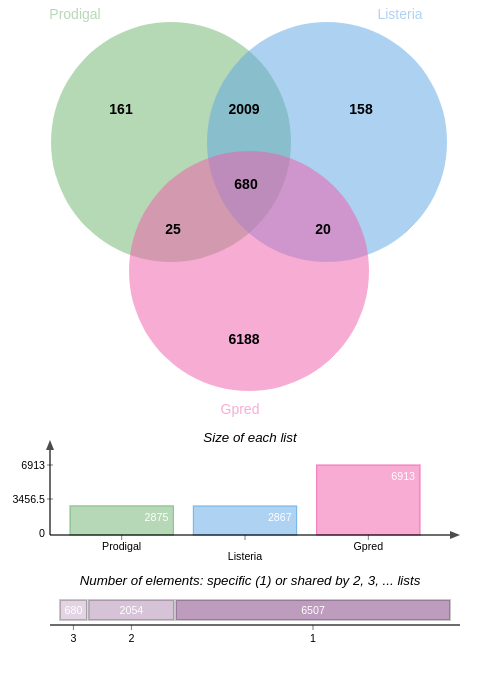
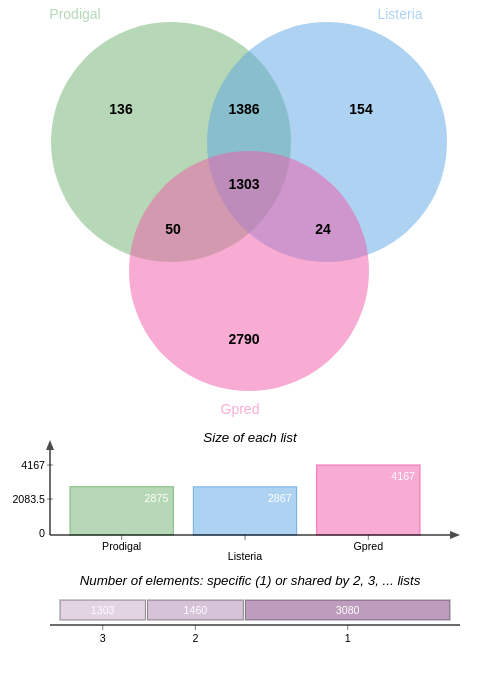
Adding the jVenn chart.

diff --git a/README.md b/README.md
@@ -5,7 +5,7 @@
 This project is a fork of the original repository [geneprediction-tp](https://github.com/aghozlane/geneprediction-tp), aimed at developing a program to predict prokaryotic genes based on the detection of reading frames and the Shine-Dalgarno motif, which is crucial for initiating protein translation. The Shine-Dalgarno sequence, AGGAGGUAA, binds to the 16S rRNA subunit to initiate translation, as described by [Shine and Dalgarno in 1973](https://www.sciencedirect.com/science/article/pii/0022283673905287). Above is a diagram showing the Shine-Dalgarno sequence in relation to the start codon AUG.
 
 <div  align="center">
-  <img src="data/shine_dalagarno_diagram.png" width= "400"  />
+  <img src="data/shine_dalagarno_diagram.png" width= "600"  />
 </div>
 
 
@@ -56,7 +56,10 @@ We will compare the predicted genes from our program with the reference genes fr
   <img src="results/jVenn_chart.png" width=400/>
 </div>
 
-The intersection between the three sets represents the genes that are correctly predicted by our program. The intersection between the predicted genes and the reference genes from Prodigal represents the genes that are correctly predicted by our program but not by Prodigal. The intersection between the predicted genes and the reference genes represents the genes that are correctly predicted by Prodigal but not by our program. The intersection between the predicted genes and the reference genes represents the genes that are correctly predicted by our program but not by Prodigal.
+- Intersection between the three sets → genes that are correctly predicted by our program.
+- Intersection between Gpred + Prodigal → genes that are correctly predicted by our program but not by Prodigal. 
+- Intersection between Listeria + Prodigal → genes that are correctly predicted by Prodigal but not by our program. 
+- Intersection between Gpred + Listeria → genes that are correctly predicted by our program but not by Prodigal.
 
 We can see that ...
 
